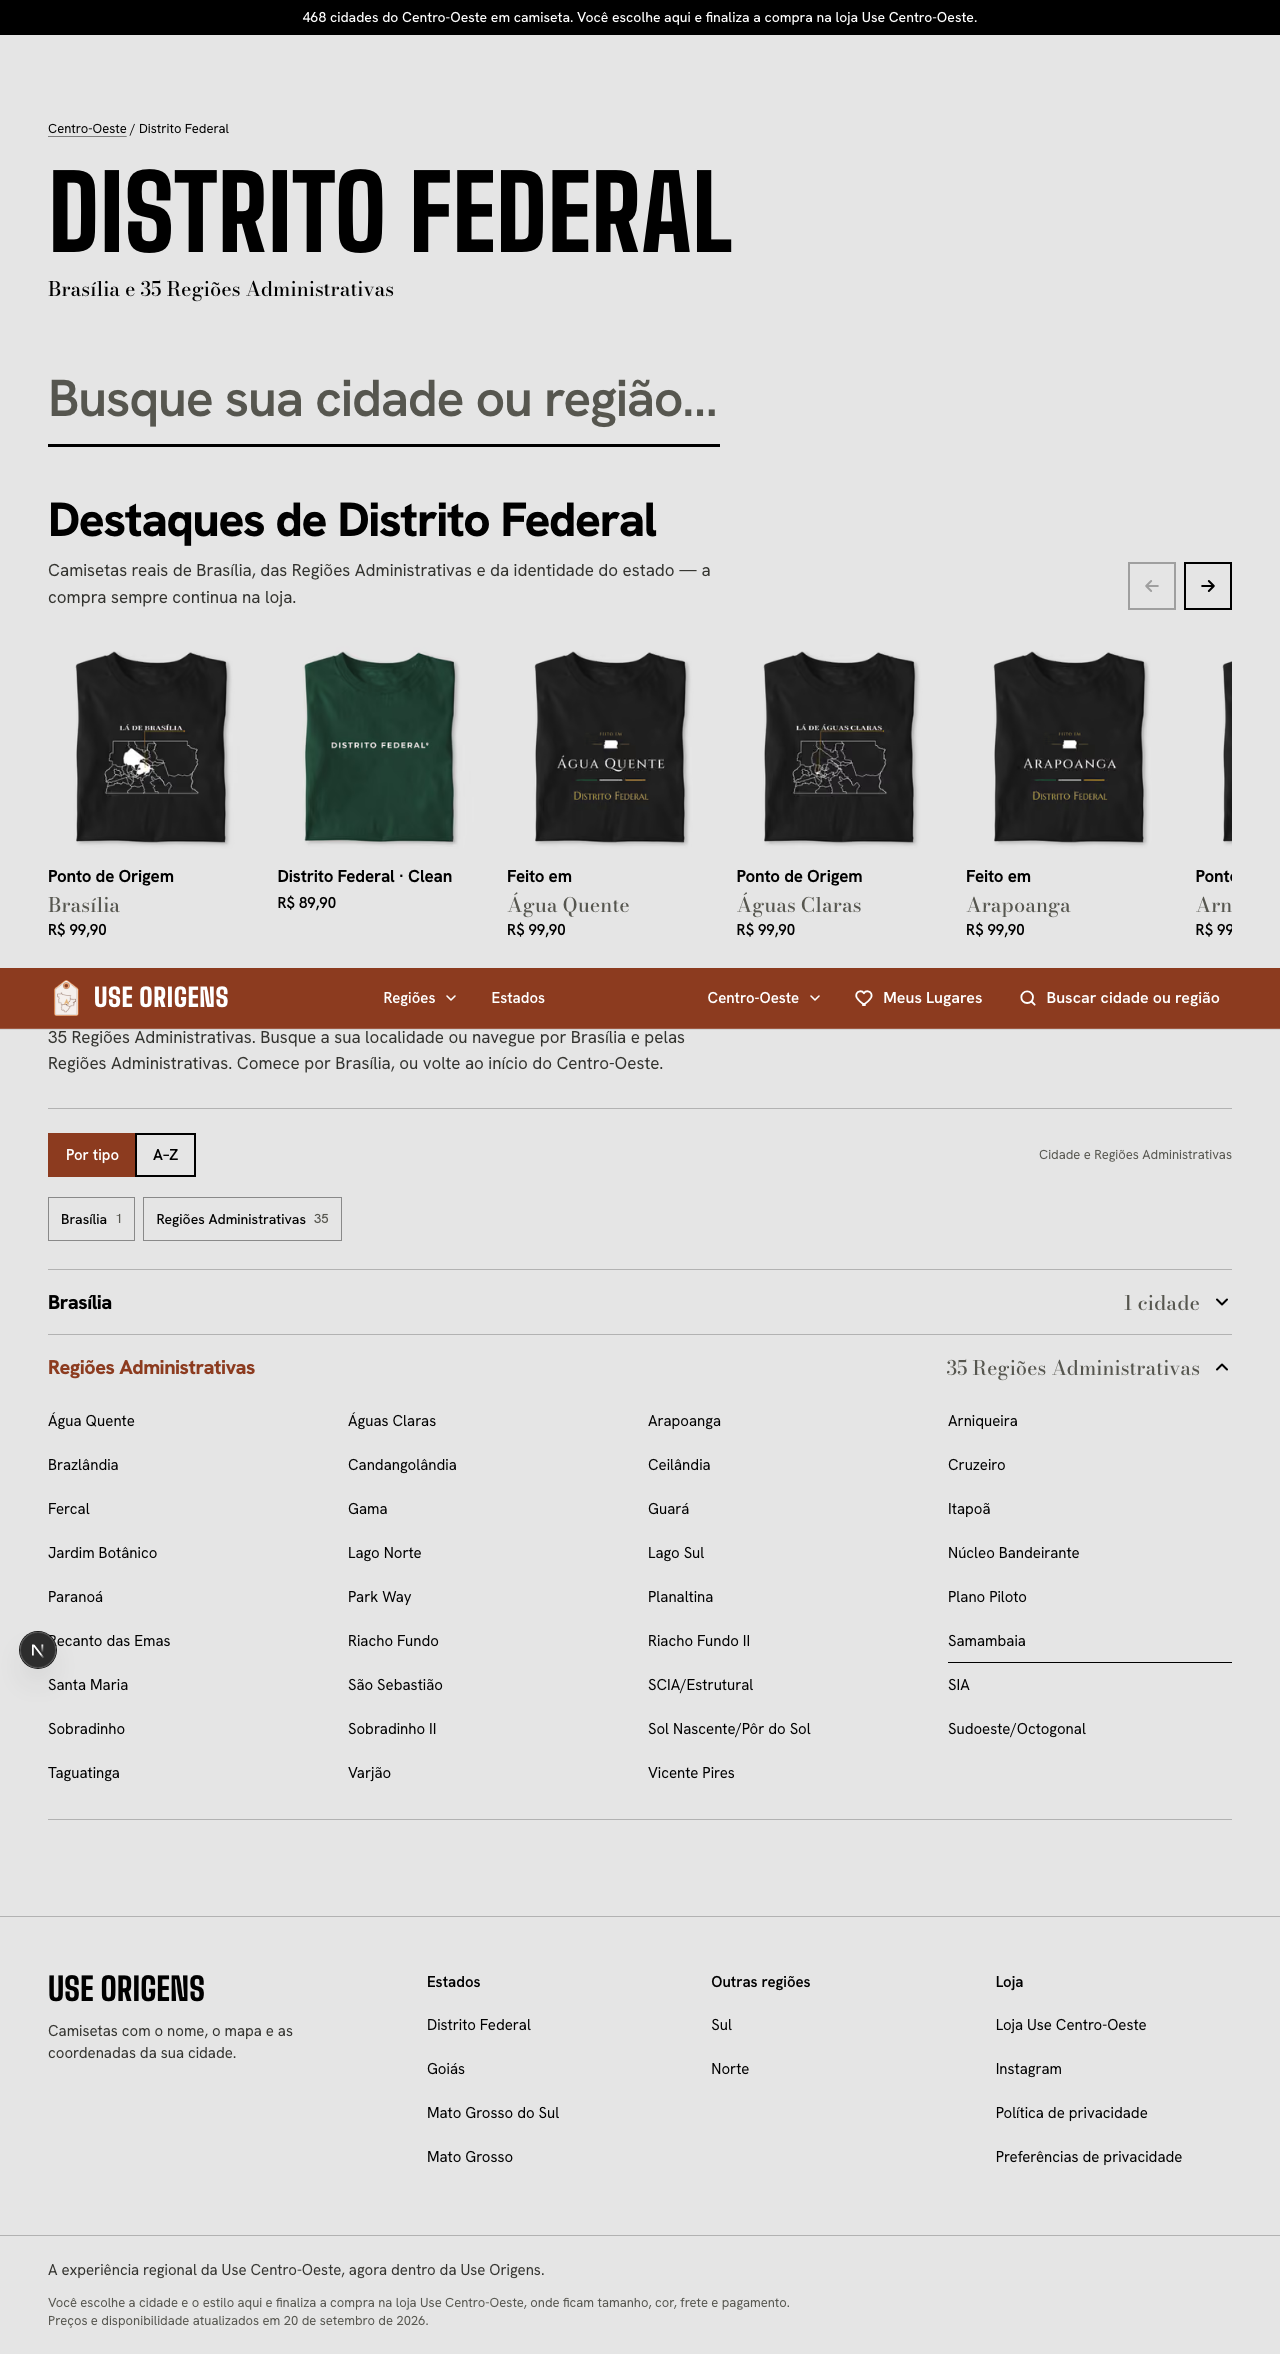
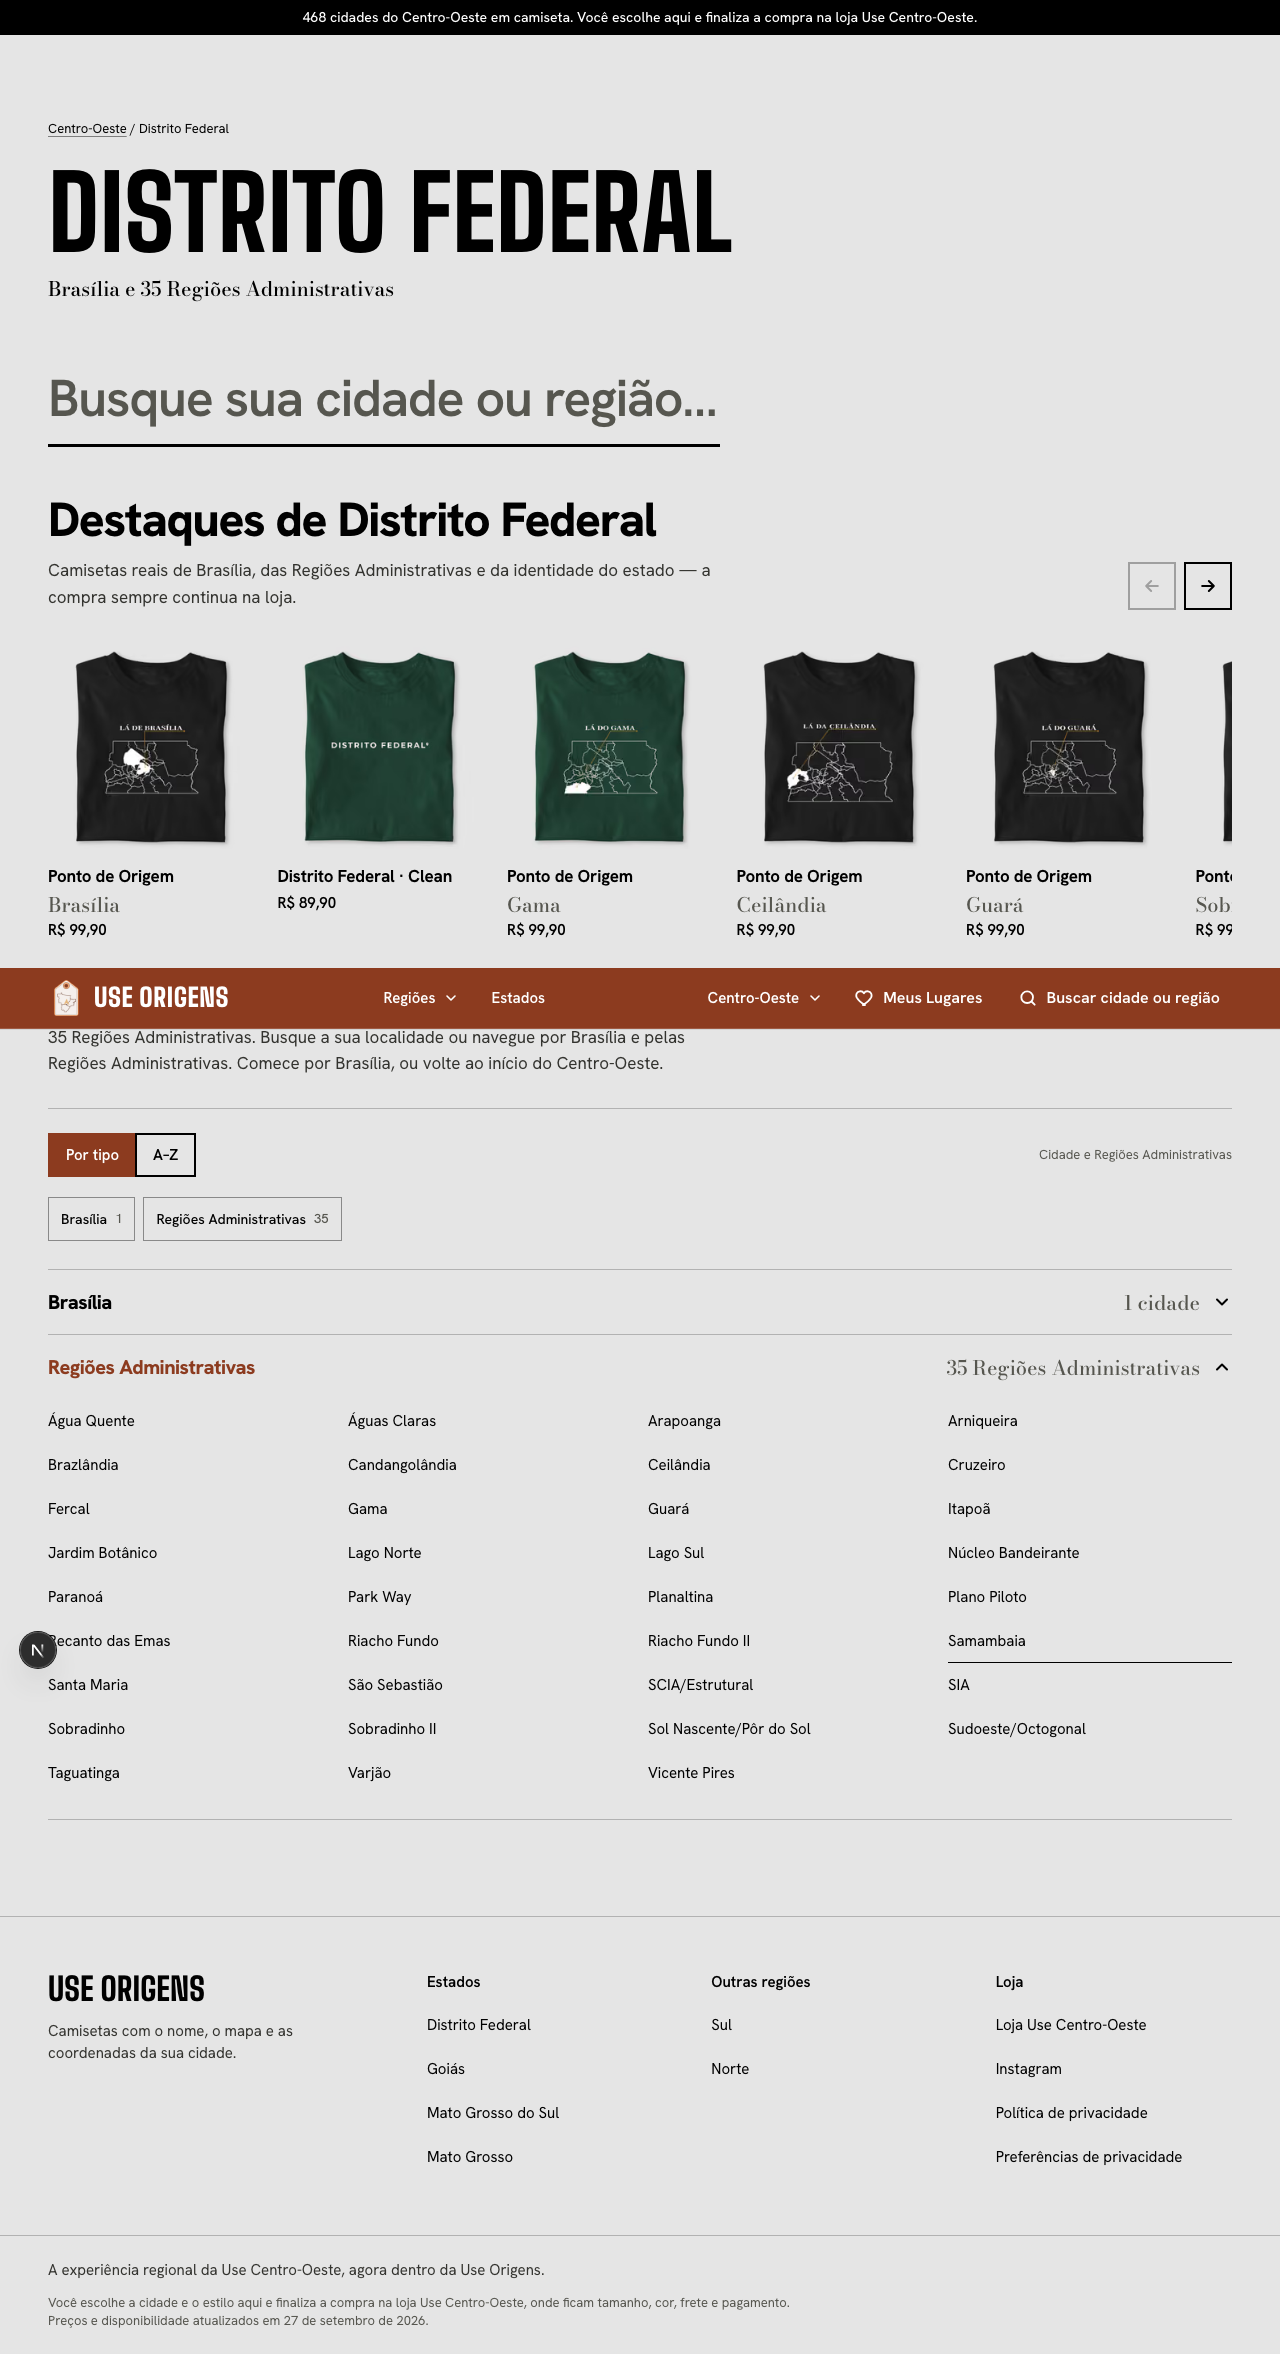
test(df): account for garment tabs on RA pages after merging main

diff --git a/tests/e2e-df/df.spec.ts b/tests/e2e-df/df.spec.ts
@@ -192,8 +192,10 @@ test.describe("DF pages", () => {
     await expect(page.getByRole("heading", { name: "Estilos" })).toBeVisible();
     // Real Águas Claras products only: 3 styles, each linking to the RA's own INK product and to its own page.
     const inkLinks = await page.locator('main a[href^="https://www.usecentro.com.br/"]').evaluateAll((els) => els.map((e) => e.getAttribute("href")!));
-    expect(inkLinks.length).toBe(3);
+    // The RA also gets the garment-type tabs (linked by the product's own INK cluster): 3 classic styles + one piece per other type, every one of them Águas Claras'.
+    expect(inkLinks.length).toBeGreaterThanOrEqual(3);
     for (const href of inkLinks) expect(href).toContain("aguas-claras");
+    await expect(page.getByRole("tab", { name: /Camiseta clássica/ })).toBeVisible();
     // Other RAs' and Brasília's products never leak in.
     const all = await page.locator("main").innerHTML();
     for (const other of ["taguatinga", "ceilandia", "gama", "brasilia-origem", "sobradinho"]) expect(all).not.toContain(`/product/${other}`);
@@ -217,7 +219,11 @@ test.describe("DF pages", () => {
     await expect(page.getByRole("heading", { level: 1 })).toHaveText("Brasília");
     const inkLinks = await page.locator('main a[href^="https://www.usecentro.com.br/"]').evaluateAll((els) => els.map((e) => e.getAttribute("href")!));
     expect(inkLinks.length).toBeGreaterThan(0);
-    expect(inkLinks.length).toBeLessThanOrEqual(2);
+    // Brasília's own two styles (and their garment pieces, by cluster): every link is Brasília's, none is an RA's.
+    for (const href of inkLinks) {
+      expect(href).toContain("brasil");
+      expect(href).not.toMatch(/taguatinga|aguas-claras|ceilandia|gama|sobradinho/);
+    }
     await expect(page.getByRole("heading", { name: /Regiões Administrativas do Distrito Federal/ })).toBeVisible();
     await expect(page.locator("#regions-title").locator("xpath=../ul/li/a")).toHaveCount(36); // 35 RAs + "Ver todas"
   });

diff --git a/docs/storefront/df-administrative-regions-round.md b/docs/storefront/df-administrative-regions-round.md
@@ -104,7 +104,7 @@ Novos:
 5. "Plano Piloto" (RA I) e "Brasília" (município) são páginas distintas, como o catálogo já as separa.
 6. O botão de busca do cabeçalho no Centro-Oeste é mais longo ("Buscar cidade ou região").
 7. A seção "Sua cidade, de 8 jeitos" continua usando a cidade de exemplo fixa (Goiânia); `resolveCity` já aceita uma RA se um dia quiserem outra.
-8. `feature/seo-entrega-c` (checkout principal, mudanças não commitadas em `sitemap.ts`, `src/lib/seo/sitemap.ts`, `seo/copy.ts`) e `feature/city-garment-tabs` tocam os mesmos pontos: ao juntar, o sitemap novo precisa usar `coveredLocalityIds`/`localityById` e a copy de estado/cidade precisa dos parâmetros novos (`administrativeRegions`, `type`); o garment index é por cluster INK e não foi verificado com rotas de RA.
+8. **Depois do merge com a main (garment tabs, PR #29–#31):** só conflitos triviais em `indexer.ts` e `repository.ts`, resolvidos mantendo as duas mudanças. As abas de peças funcionam nas páginas de RA sem código extra (a ligação é pelo cluster do produto principal da própria RA: Águas Claras e Ceilândia 9 peças, Taguatinga 18, Brasília 18; nenhuma peça de uma localidade aparece na outra). Verificado: vitest 1034 verdes, tsc/eslint/build limpos, `test:df` 14/14 (2 asserções ajustadas porque agora há mais links INK por página), `tests/e2e` 172 passam; falharam `sul.spec.ts:26` e `:163`, que passam isolados (partida a frio do índice de 20 MB, já documentada na branch das abas), e `:332`, que falha na base. `feature/seo-entrega-c` (checkout principal, mudanças não commitadas em `sitemap.ts`, `src/lib/seo/sitemap.ts`, `seo/copy.ts`) e `feature/city-garment-tabs` tocam os mesmos pontos: ao juntar, o sitemap novo precisa usar `coveredLocalityIds`/`localityById` e a copy de estado/cidade precisa dos parâmetros novos (`administrativeRegions`, `type`); o garment index é por cluster INK e não foi verificado com rotas de RA.
 9. O snapshot tem só 48 `memberIds` por coleção (limite do formato existente): uma seção alimentada pela coleção `DF` mostra os 48 primeiros dos 114.
 10. Ambiente: `node_modules` do worktree é clone do principal e `data/generated`, `data/admin-dev` foram copiados (ignorados pelo git). O hook global de pre-commit reclama de `.pre-commit-config.yaml` ausente; os commits usaram `PRE_COMMIT_ALLOW_NO_CONFIG=1` (não há config, nada foi pulado).
 
